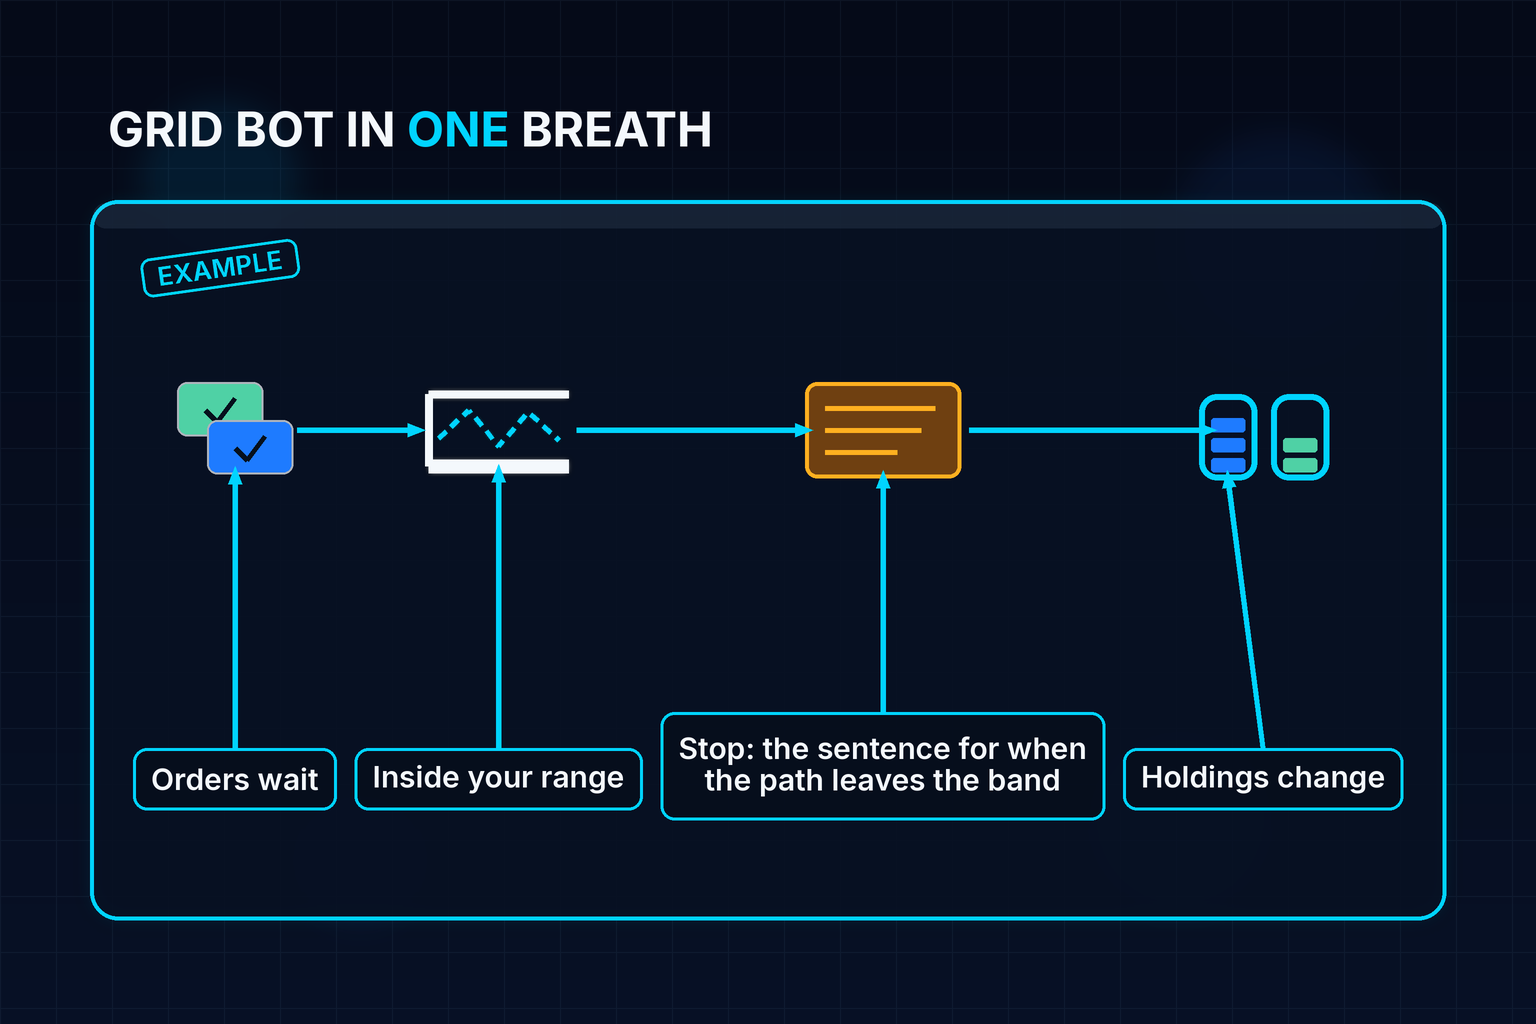
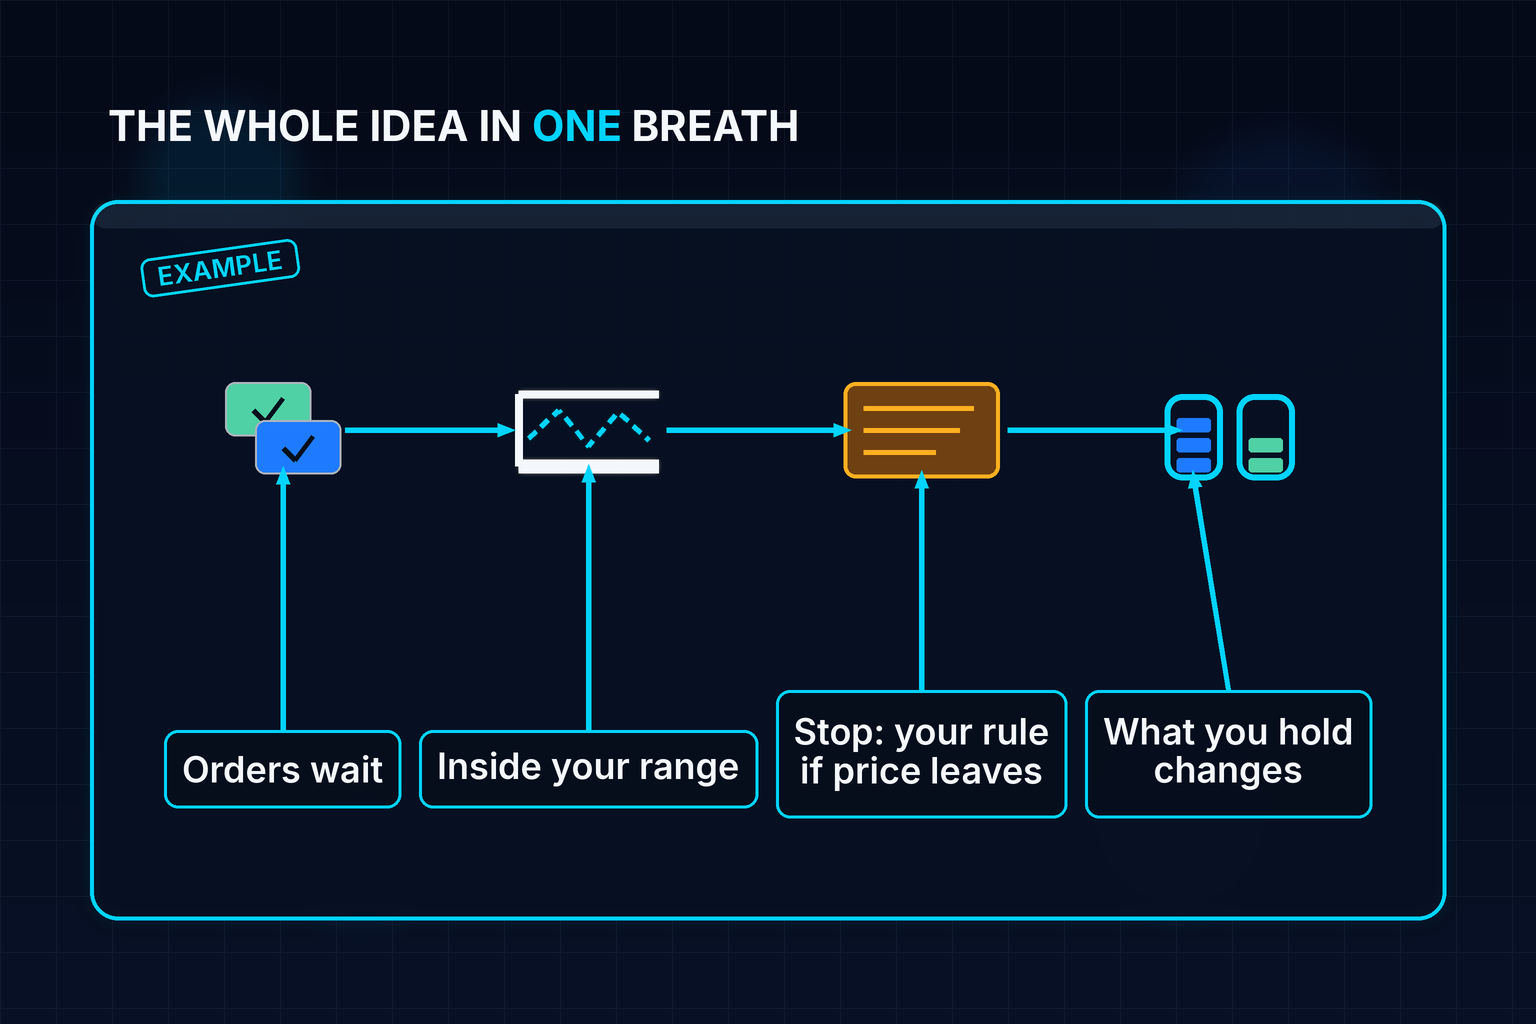
Redraw BP-03 008, 010, and 014 with the beginner wording.
008 shows coin and cash swapping while price bounces, and one pile much taller when price leaves. 010 names top, bottom, levels, what you hold, and stop. 014 says the stop is your rule if price leaves.

Changed region(s): [[0.0938, 0.375, 0.9062, 0.8125], [0.0625, 0.0938, 0.5312, 0.1562], [0.5, 0.375, 0.5625, 0.4688]]

diff --git a/course/tools/blueprint_cursor_stills/render_bp03_008_010.py b/course/tools/blueprint_cursor_stills/render_bp03_008_010.py
@@ -1,0 +1,235 @@
+#!/usr/bin/env python3
+"""BP-03 beats 008 and 010 with the beginner wording from the b608319 re-check.
+
+008: what you hold changes. No "balanced".
+010: Top, Bottom, Levels, What you hold, Stop. No Upper/Lower/Side, no skip line.
+"""
+
+from __future__ import annotations
+
+import sys
+from pathlib import Path
+
+from PIL import Image, ImageDraw
+
+sys.path.insert(0, str(Path(__file__).resolve().parent))
+from render_bp01_007 import BLUE, CYAN, FONT_BOLD, FONT_SEMI, MINT, WHITE, px  # noqa: E402
+from render_bp03_011_014 import (  # noqa: E402
+    AMBER,
+    arrow,
+    assert_tip,
+    dashed_polyline,
+    finish,
+    font,
+    headline,
+    hline,
+    margins,
+    paste_layer,
+    rounded_glow,
+    stamp,
+    tag,
+    text_size,
+    new_canvas,
+    draw_bokeh,
+    draw_grid,
+)
+
+ROOT = Path(__file__).resolve().parents[3]
+OUT_008 = ROOT / "course/images/bp-03-what-is-a-grid-bot/008.png"
+OUT_010 = ROOT / "course/images/bp-03-what-is-a-grid-bot/010.png"
+
+
+def bars(base, x, y, w, h, color) -> None:
+    layer = Image.new("RGBA", base.size, (0, 0, 0, 0))
+    d = ImageDraw.Draw(layer)
+    d.rounded_rectangle(
+        [px(x), px(y), px(x + w), px(y + h)],
+        radius=px(10),
+        fill=color + (255,),
+    )
+    paste_layer(base, layer)
+
+
+def render_008() -> Image.Image:
+    img = new_canvas()
+    draw_grid(img)
+    draw_bokeh(img)
+    cards = [(96, 230, 740, 910), (796, 230, 1440, 910)]
+    for box in cards:
+        rounded_glow(
+            img,
+            [px(v) for v in box],
+            radius=px(26),
+            fill=(7, 16, 34, 230),
+            outline=CYAN + (255,),
+            glow=(0, 180, 230, 100),
+            width=px(4),
+        )
+
+    def band_and_path(x0, x1, top, bot, pts):
+        hline(img, x0, x1, top, CYAN, 6)
+        hline(img, x0, x1, bot, CYAN, 6)
+        # Solid, so every peak and trough sits on a band line.
+        layer = Image.new("RGBA", img.size, (0, 0, 0, 0))
+        d = ImageDraw.Draw(layer)
+        d.line([(px(x), px(y)) for x, y in pts], fill=CYAN + (255,), width=px(6))
+        paste_layer(img, layer)
+
+    # Left: price bounces between the lines. Peaks and troughs land on them.
+    band_and_path(
+        150,
+        680,
+        340,
+        500,
+        [(180, 420), (270, 340), (380, 500), (490, 340), (600, 500), (680, 420)],
+    )
+    bars(img, 180, 560, 220, 90, BLUE)
+    bars(img, 430, 560, 220, 90, MINT)
+
+    # Right: price leaves through the bottom and stays below, clear of the piles.
+    band_and_path(
+        850,
+        1380,
+        340,
+        500,
+        [(880, 420), (980, 340), (1080, 500), (1180, 360), (1260, 500), (1340, 600)],
+    )
+    bars(img, 880, 580, 180, 150, BLUE)
+    bars(img, 1120, 694, 180, 36, MINT)
+
+    face = font(FONT_SEMI, 32)
+    tag(img, (130, 760, 706, 880), ["Price bounces: coin and cash", "swap back and forth"], face)
+    tag(img, (830, 760, 1406, 880), ["Price leaves: mostly coin", "or mostly cash"], face)
+    stamp(img, 1320, 275)
+    headline(
+        img,
+        108,
+        108,
+        [("WHAT YOU ", WHITE), ("HOLD", CYAN), (" CHANGES", WHITE)],
+        font(FONT_BOLD, 52),
+    )
+    final = finish(img)
+    m = margins(final)
+    print("008 margins", m)
+    if m[0] < 80 or m[1] < 80 or m[2] < 90 or m[3] < 90:
+        raise SystemExit(f"008 margin fail {m}")
+    return final
+
+
+def render_010() -> Image.Image:
+    img = new_canvas()
+    draw_grid(img)
+    draw_bokeh(img)
+
+    # The band. Top and bottom are the edges. Levels are the inner rungs.
+    left, right, top, bot = 470, 980, 360, 700
+    rounded_glow(
+        img,
+        [px(left), px(top), px(right), px(bot)],
+        radius=px(18),
+        fill=(7, 16, 34, 210),
+        outline=CYAN + (255,),
+        glow=(0, 160, 210, 80),
+        width=px(4),
+    )
+    levels = [450, 540, 620]
+    for y in levels:
+        hline(img, left + 30, right - 30, y, (150, 210, 230), 6)
+    # Thicker top and bottom so the arrow has a solid stroke.
+    hline(img, left + 20, right - 20, top + 8, CYAN, 8)
+    hline(img, left + 20, right - 20, bot - 8, CYAN, 8)
+
+    # What you hold: one blue stack and one mint stack. Not coins.
+    stack_x = 1140
+    for i in range(3):
+        bars(img, stack_x, 620 - i * 34, 64, 26, BLUE)
+    for i in range(2):
+        bars(img, 1240, 620 - i * 34, 64, 26, MINT)
+
+    # Stop sits under the Stop label, not across the Bottom arrow.
+    hline(img, 140, 420, 740, AMBER, 12)
+
+    face = font(FONT_SEMI, 36)
+    labels = {
+        "Top": (620, 230, 860, 310),
+        "Bottom": (620, 800, 860, 880),
+        "Levels": (108, 500, 400, 580),
+        "What you hold": (1040, 250, 1420, 340),
+        "Stop": (108, 800, 360, 880),
+    }
+    # Measure and shrink boxes to the text so they stay large but not huge empty plates.
+    placed = {}
+    for name, (x0, y0, x1, y1) in labels.items():
+        tw = text_size(face, name)[0] / 2 + 48
+        th = 78
+        if name == "Top":
+            box = ((left + right) / 2 - tw / 2, 248, (left + right) / 2 + tw / 2, 248 + th)
+        elif name == "Bottom":
+            box = ((left + right) / 2 - tw / 2, 800, (left + right) / 2 + tw / 2, 800 + th)
+        elif name == "Levels":
+            box = (108, 512, 108 + tw, 512 + th)
+        elif name == "What you hold":
+            box = (1428 - tw, 268, 1428, 268 + th)
+        else:
+            box = (108, 800, 108 + tw, 800 + th)
+        placed[name] = box
+        tag(img, box, [name], face)
+
+    tips = {
+        "Top": ((left + right) / 2, top + 8),
+        "Bottom": ((left + right) / 2, bot - 8),
+        "Levels": (left + 40, levels[1]),
+        "What you hold": (stack_x + 32, 620 - 34 + 8),
+        "Stop": (280, 740),
+    }
+    starts = {
+        "Top": ((placed["Top"][0] + placed["Top"][2]) / 2, placed["Top"][3]),
+        "Bottom": ((placed["Bottom"][0] + placed["Bottom"][2]) / 2, placed["Bottom"][1]),
+        "Levels": (placed["Levels"][2], (placed["Levels"][1] + placed["Levels"][3]) / 2),
+        "What you hold": (placed["What you hold"][0], (placed["What you hold"][1] + placed["What you hold"][3]) / 2),
+        "Stop": ((placed["Stop"][0] + placed["Stop"][2]) / 2, placed["Stop"][1]),
+    }
+    # Pull each tip a few pixels onto the stroke.
+    tips["Top"] = (tips["Top"][0], tips["Top"][1] + 2)
+    tips["Bottom"] = (tips["Bottom"][0], tips["Bottom"][1] - 2)
+    tips["Levels"] = (tips["Levels"][0] + 6, tips["Levels"][1])
+    tips["What you hold"] = (tips["What you hold"][0], tips["What you hold"][1] + 4)
+    tips["Stop"] = (tips["Stop"][0], tips["Stop"][1] + 3)
+
+    for name in tips:
+        arrow(img, starts[name], tips[name])
+
+    stamp(img, 1320, 820)
+    headline(
+        img,
+        108,
+        108,
+        [("POINT AND SAY THE ", WHITE), ("FIVE", CYAN)],
+        font(FONT_BOLD, 48),
+    )
+    final = finish(img)
+    m = margins(final)
+    print("010 margins", m)
+    if m[0] < 80 or m[1] < 80 or m[2] < 90 or m[3] < 90:
+        raise SystemExit(f"010 margin fail {m}")
+    toward = {
+        "Top": (tips["Top"][0], tips["Top"][1] + 10),
+        "Bottom": (tips["Bottom"][0], tips["Bottom"][1] - 10),
+        "Levels": (tips["Levels"][0] + 12, tips["Levels"][1]),
+        "What you hold": (tips["What you hold"][0] + 10, tips["What you hold"][1]),
+        "Stop": (tips["Stop"][0], tips["Stop"][1] + 6),
+    }
+    for name, tip in tips.items():
+        assert_tip(final, (int(round(tip[0])), int(round(tip[1]))), toward[name], name)
+    return final
+
+
+def main() -> None:
+    render_008().save(OUT_008, "PNG")
+    render_010().save(OUT_010, "PNG")
+    print("wrote", OUT_008)
+    print("wrote", OUT_010)
+
+
+if __name__ == "__main__":
+    main()

diff --git a/course/tools/blueprint_cursor_stills/render_bp03_011_014.py b/course/tools/blueprint_cursor_stills/render_bp03_011_014.py
@@ -458,13 +458,12 @@ def render_014() -> Image.Image:
         width=px(4),
     )
 
-    face = font(FONT_SEMI, 30)
-    stop_lines = ["Stop: the sentence for when", "the path leaves the band"]
+    face = font(FONT_SEMI, 36)
     labels = [
         ["Orders wait"],
         ["Inside your range"],
-        stop_lines,
-        ["Holdings change"],
+        ["Stop: your rule", "if price leaves"],
+        ["What you hold", "changes"],
     ]
     widths = []
     for lines in labels:
@@ -474,8 +473,9 @@ def render_014() -> Image.Image:
     left0 = (1536 - total) / 2
     boxes = []
     x = left0
-    tops = [748, 748, 712, 748]
-    heights = [62, 62, 108, 62]
+    # Two-line labels sit a little higher so the larger type stays inside the card.
+    tops = [730, 730, 690, 690]
+    heights = [78, 78, 128, 128]
     for w, top, h in zip(widths, tops, heights):
         boxes.append((x, top, x + w, top + h))
         x += w + gap
@@ -520,8 +520,8 @@ def render_014() -> Image.Image:
         img,
         108,
         100,
-        [("GRID BOT IN ", WHITE), ("ONE", CYAN), (" BREATH", WHITE)],
-        font(FONT_BOLD, 48),
+        [("THE WHOLE IDEA IN ", WHITE), ("ONE", CYAN), (" BREATH", WHITE)],
+        font(FONT_BOLD, 42),
     )
     final = finish(img)
     m = margins(final)
